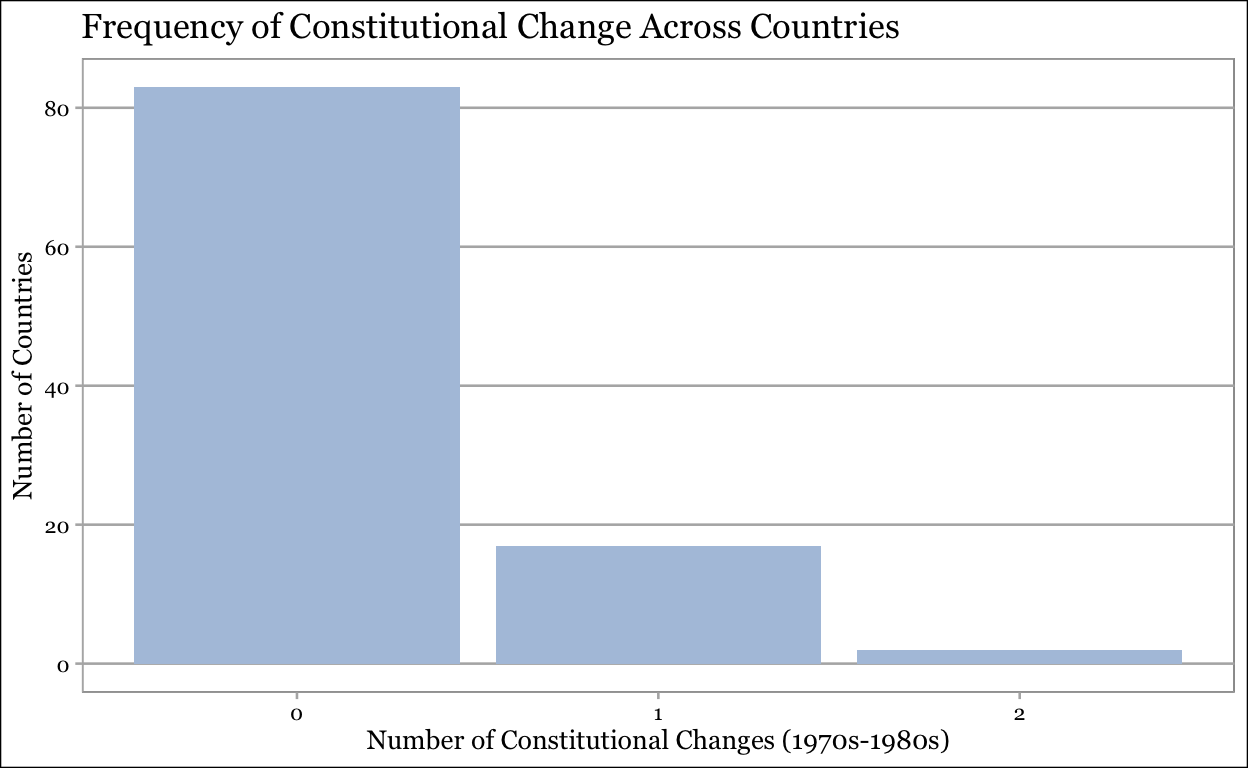
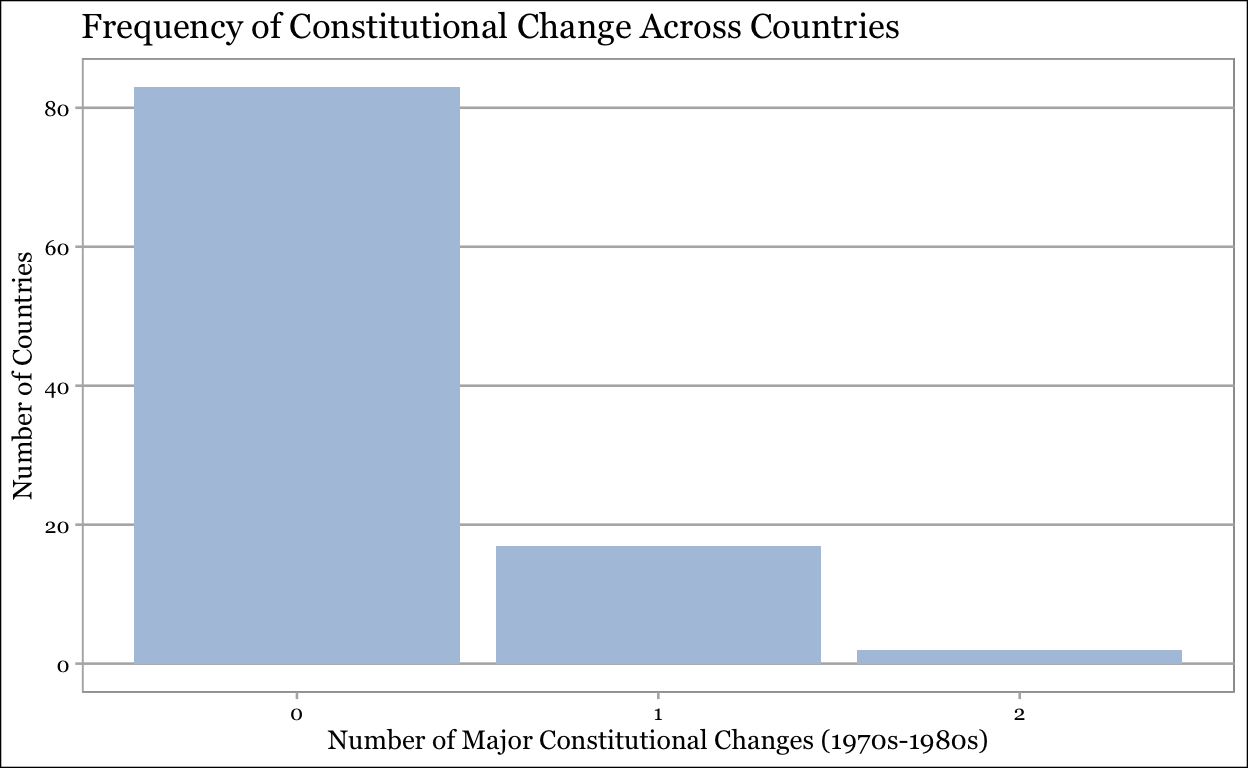
naming chunks

Changed region(s): [[0.25, 0.9375, 0.7812, 1.0]]

diff --git a/index.html b/index.html
@@ -1559,37 +1559,45 @@ code span.wa { color: #5e5e5e; font-style: italic; } /* Warning */
 </tbody>
 </table>
 <p>##Code</p>
-<h2 id="reading-and-merging-data-calculating-average-number-of-consitutional-changes-and-average-years-in-power">Reading and merging data, calculating average number of consitutional changes and average years in power</h2>
+<h2 id="preparing-the-data">Preparing the data</h2>
 <div class="layout-chunk" data-layout="l-body">
 <div class="sourceCode">
-<pre class="sourceCode r"><code class="sourceCode r"><span><span class='va'>violence</span> <span class='op'>&lt;-</span> <span class='fu'><a href='https://readr.tidyverse.org/reference/read_delim.html'>read_csv</a></span><span class='op'>(</span><span class='st'>"data(final project gov 50)/Violence/violence.csv"</span><span class='op'>)</span></span>
+<pre class="sourceCode r"><code class="sourceCode r"><span><span class='co'>## Reading data files</span></span>
+<span><span class='va'>violence</span> <span class='op'>&lt;-</span> <span class='fu'><a href='https://readr.tidyverse.org/reference/read_delim.html'>read_csv</a></span><span class='op'>(</span><span class='st'>"data(final project gov 50)/Violence/violence.csv"</span><span class='op'>)</span></span>
 <span></span>
 <span><span class='va'>dpi</span> <span class='op'>&lt;-</span> <span class='fu'><a href='https://readr.tidyverse.org/reference/read_delim.html'>read_csv</a></span><span class='op'>(</span><span class='st'>"data(final project gov 50)/DPI2020/DPI2020.csv"</span><span class='op'>)</span></span>
 <span></span>
+<span></span>
+<span><span class='co'>## Calculating overall number of constitutional changes for each country over a given period</span></span>
 <span><span class='va'>violence</span> <span class='op'>&lt;-</span> </span>
 <span>  <span class='va'>violence</span> <span class='op'>|&gt;</span></span>
+<span>  <span class='fu'><a href='https://dplyr.tidyverse.org/reference/group_by.html'>group_by</a></span><span class='op'>(</span><span class='va'>country</span><span class='op'>)</span> <span class='op'>|&gt;</span></span>
 <span>  <span class='fu'><a href='https://dplyr.tidyverse.org/reference/mutate.html'>mutate</a></span><span class='op'>(</span>constch_overall <span class='op'>=</span> <span class='va'>constchg70</span> <span class='op'>+</span> <span class='va'>constchg80</span><span class='op'>)</span> </span>
 <span></span>
-<span><span class='va'>dpi</span> <span class='op'>&lt;-</span> </span>
-<span>  <span class='va'>dpi</span> <span class='op'>|&gt;</span></span>
-<span>  <span class='fu'><a href='https://dplyr.tidyverse.org/reference/filter.html'>filter</a></span><span class='op'>(</span><span class='va'>year</span> <span class='op'>&gt;=</span> <span class='fl'>1970</span> <span class='op'>&amp;</span> <span class='va'>year</span> <span class='op'>&lt;=</span> <span class='fl'>1989</span><span class='op'>)</span> </span>
-<span>  </span>
-<span> <span class='fu'><a href='https://rdrr.io/r/base/colnames.html'>colnames</a></span><span class='op'>(</span><span class='va'>dpi</span><span class='op'>)</span> <span class='op'>[</span><span class='fl'>1</span><span class='op'>]</span> <span class='op'>&lt;-</span> <span class='st'>"country"</span></span>
+<span><span class='co'>## Calculating the average number of years Chief Executive has been in office for each country</span></span>
+<span><span class='fu'><a href='https://rdrr.io/r/base/colnames.html'>colnames</a></span><span class='op'>(</span><span class='va'>dpi</span><span class='op'>)</span> <span class='op'>[</span><span class='fl'>1</span><span class='op'>]</span> <span class='op'>&lt;-</span> <span class='st'>"country"</span></span>
 <span></span>
-<span>  <span class='va'>dpi</span> <span class='op'>&lt;-</span> </span>
+<span><span class='va'>dpi</span> <span class='op'>&lt;-</span> </span>
 <span>   <span class='va'>dpi</span> <span class='op'>|&gt;</span></span>
 <span>  <span class='fu'><a href='https://dplyr.tidyverse.org/reference/group_by.html'>group_by</a></span><span class='op'>(</span><span class='va'>country</span><span class='op'>)</span> <span class='op'>|&gt;</span></span>
 <span>  <span class='fu'><a href='https://dplyr.tidyverse.org/reference/mutate.html'>mutate</a></span><span class='op'>(</span>avg_yrsoffc <span class='op'>=</span> <span class='fu'><a href='https://rdrr.io/r/base/mean.html'>mean</a></span><span class='op'>(</span><span class='va'>yrsoffc</span>, na.rm <span class='op'>=</span> <span class='cn'>TRUE</span><span class='op'>)</span><span class='op'>)</span> <span class='op'>|&gt;</span></span>
 <span>  <span class='fu'><a href='https://dplyr.tidyverse.org/reference/filter.html'>filter</a></span><span class='op'>(</span><span class='va'>yrsoffc</span> <span class='op'>&gt;=</span> <span class='fl'>0</span><span class='op'>)</span></span>
+<span></span>
+<span><span class='co'>## Filtering one of the data sources to only include needed decades</span></span>
+<span><span class='va'>dpi</span> <span class='op'>&lt;-</span> </span>
+<span>  <span class='va'>dpi</span> <span class='op'>|&gt;</span></span>
+<span>  <span class='fu'><a href='https://dplyr.tidyverse.org/reference/filter.html'>filter</a></span><span class='op'>(</span><span class='va'>year</span> <span class='op'>&gt;=</span> <span class='fl'>1970</span> <span class='op'>&amp;</span> <span class='va'>year</span> <span class='op'>&lt;=</span> <span class='fl'>1989</span><span class='op'>)</span> </span>
 <span>  </span>
 <span>  </span>
+<span><span class='co'>## Merging data sources by country</span></span>
 <span><span class='va'>dpi</span> <span class='op'>&lt;-</span> </span>
 <span>  <span class='va'>dpi</span><span class='op'>|&gt;</span></span>
 <span>  <span class='fu'><a href='https://dplyr.tidyverse.org/reference/mutate.html'>mutate</a></span><span class='op'>(</span>country <span class='op'>=</span> <span class='fu'><a href='https://rdrr.io/r/base/chartr.html'>toupper</a></span><span class='op'>(</span><span class='va'>country</span><span class='op'>)</span><span class='op'>)</span></span>
 <span></span>
 <span> <span class='va'>data</span> <span class='op'>&lt;-</span> </span>
-<span>   <span class='fu'><a href='https://rdrr.io/r/base/merge.html'>merge</a></span><span class='op'>(</span><span class='va'>violence</span>, <span class='va'>dpi</span>, by <span class='op'>=</span> <span class='st'>"country"</span><span class='op'>)</span> </span>
+<span>   <span class='fu'><a href='https://rdrr.io/r/base/merge.html'>merge</a></span><span class='op'>(</span><span class='va'>violence</span>, <span class='va'>dpi</span>, by <span class='op'>=</span> <span class='st'>"country"</span><span class='op'>)</span></span>
 <span> </span>
+<span> <span class='co'>## Tidying up the data: selecting needed variables</span></span>
 <span> <span class='va'>data</span> <span class='op'>&lt;-</span> <span class='va'>data</span> <span class='op'>|&gt;</span></span>
 <span>   <span class='fu'><a href='https://dplyr.tidyverse.org/reference/select.html'>select</a></span><span class='op'>(</span><span class='va'>country</span>,<span class='va'>year</span>, <span class='va'>constchg70</span>, <span class='va'>constchg80</span>, <span class='va'>constch_overall</span>, <span class='va'>corrupti</span>, <span class='va'>yrsoffc</span>, <span class='va'>avg_yrsoffc</span><span class='op'>)</span></span></code></pre>
 </div>
@@ -1597,15 +1605,18 @@ code span.wa { color: #5e5e5e; font-style: italic; } /* Warning */
 <h2 id="visualisation-1---summary-of-constch_overall">Visualisation 1 - Summary of constch_overall</h2>
 <div class="layout-chunk" data-layout="l-body">
 <div class="sourceCode">
-<pre class="sourceCode r"><code class="sourceCode r"><span><span class='va'>countryonce_data</span> <span class='op'>&lt;-</span></span>
+<pre class="sourceCode r"><code class="sourceCode r"><span><span class='co'>## </span></span>
+<span><span class='va'>countryonce_data</span> <span class='op'>&lt;-</span></span>
 <span>  <span class='va'>data</span> <span class='op'>|&gt;</span></span>
 <span>  <span class='fu'><a href='https://dplyr.tidyverse.org/reference/group_by.html'>group_by</a></span><span class='op'>(</span><span class='va'>country</span><span class='op'>)</span> <span class='op'>|&gt;</span></span>
 <span>  <span class='fu'><a href='https://dplyr.tidyverse.org/reference/slice.html'>slice</a></span><span class='op'>(</span><span class='fl'>1</span><span class='op'>)</span></span>
 <span></span>
+<span></span>
+<span><span class='co'>## Bar plot summarizing frequency of constitutional change across countries</span></span>
 <span><span class='va'>countryonce_data</span> <span class='op'>|&gt;</span></span>
 <span>  <span class='fu'><a href='https://ggplot2.tidyverse.org/reference/ggplot.html'>ggplot</a></span><span class='op'>(</span>mapping <span class='op'>=</span> <span class='fu'><a href='https://ggplot2.tidyverse.org/reference/aes.html'>aes</a></span><span class='op'>(</span>x <span class='op'>=</span> <span class='va'>constch_overall</span><span class='op'>)</span><span class='op'>)</span> <span class='op'>+</span> </span>
 <span>  <span class='fu'><a href='https://ggplot2.tidyverse.org/reference/geom_bar.html'>geom_bar</a></span><span class='op'>(</span>fill <span class='op'>=</span> <span class='st'>"lightsteelblue"</span><span class='op'>)</span> <span class='op'>+</span> </span>
-<span>  <span class='fu'><a href='https://ggplot2.tidyverse.org/reference/labs.html'>labs</a></span><span class='op'>(</span>title <span class='op'>=</span> <span class='st'>"Frequency of Constitutional Change Across Countries"</span>, y <span class='op'>=</span> <span class='st'>"Number of Countries"</span>, x <span class='op'>=</span> <span class='st'>"Number of Constitutional Changes (1970s-1980s)"</span><span class='op'>)</span> <span class='op'>+</span> </span>
+<span>  <span class='fu'><a href='https://ggplot2.tidyverse.org/reference/labs.html'>labs</a></span><span class='op'>(</span>title <span class='op'>=</span> <span class='st'>"Frequency of Constitutional Change Across Countries"</span>, y <span class='op'>=</span> <span class='st'>"Number of Countries"</span>, x <span class='op'>=</span> <span class='st'>"Number of Major Constitutional Changes (1970s-1980s)"</span><span class='op'>)</span> <span class='op'>+</span> </span>
 <span>  <span class='fu'><a href='https://rdrr.io/pkg/ggthemes/man/theme_calc.html'>theme_calc</a></span><span class='op'>(</span><span class='op'>)</span> <span class='op'>+</span></span>
 <span>  <span class='fu'><a href='https://ggplot2.tidyverse.org/reference/theme.html'>theme</a></span><span class='op'>(</span>text <span class='op'>=</span> <span class='fu'><a href='https://ggplot2.tidyverse.org/reference/element.html'>element_text</a></span><span class='op'>(</span><span class='st'>"Georgia"</span><span class='op'>)</span><span class='op'>)</span></span></code></pre>
 </div>
@@ -1661,14 +1672,14 @@ code span.wa { color: #5e5e5e; font-style: italic; } /* Warning */
 (Intercept)
 </td>
 <td style="text-align:center;">
-0.341
+0.282
 </td>
 </tr>
 <tr>
 <td style="text-align:left;">
 </td>
 <td style="text-align:center;">
-s.e. = 0.035
+s.e. = 0.029
 </td>
 </tr>
 <tr>
@@ -1683,7 +1694,7 @@ p = &lt;0.001
 corrupti
 </td>
 <td style="text-align:center;">
-−0.042
+−0.035
 </td>
 </tr>
 <tr>
@@ -1705,21 +1716,21 @@ p = &lt;0.001
 avg_yrsoffc
 </td>
 <td style="text-align:center;">
-−0.004
+0.001
 </td>
 </tr>
 <tr>
 <td style="text-align:left;">
 </td>
 <td style="text-align:center;">
-s.e. = 0.002
+s.e. = 0.001
 </td>
 </tr>
 <tr>
 <td style="text-align:left;">
 </td>
 <td style="text-align:center;">
-p = 0.016
+p = 0.115
 </td>
 </tr>
 </tbody>
